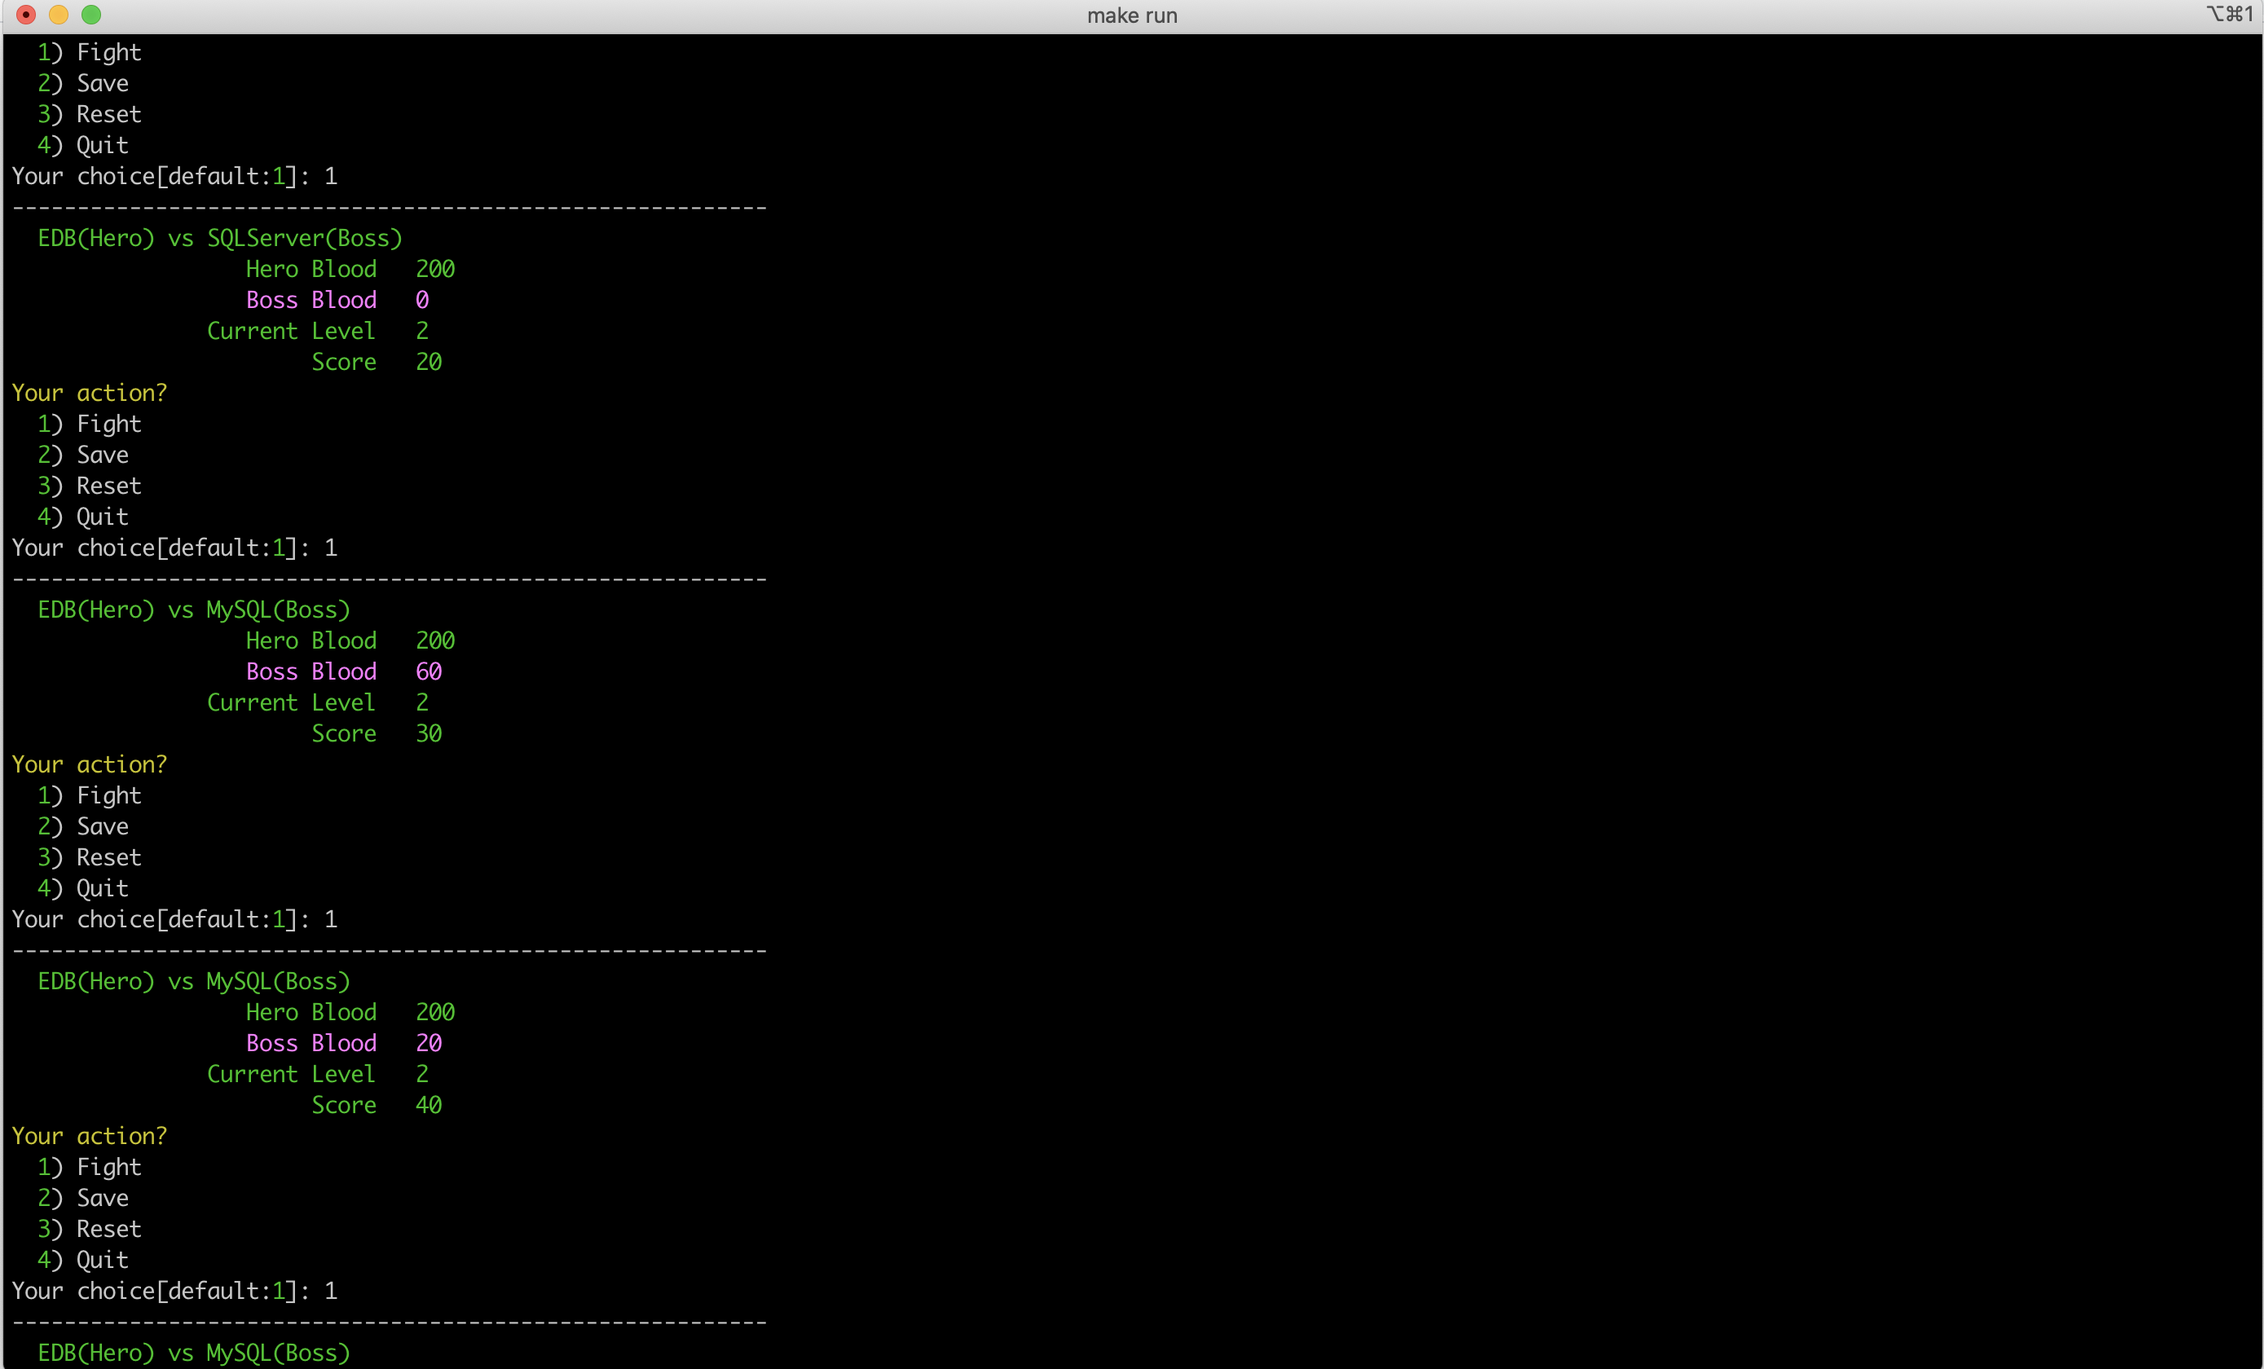
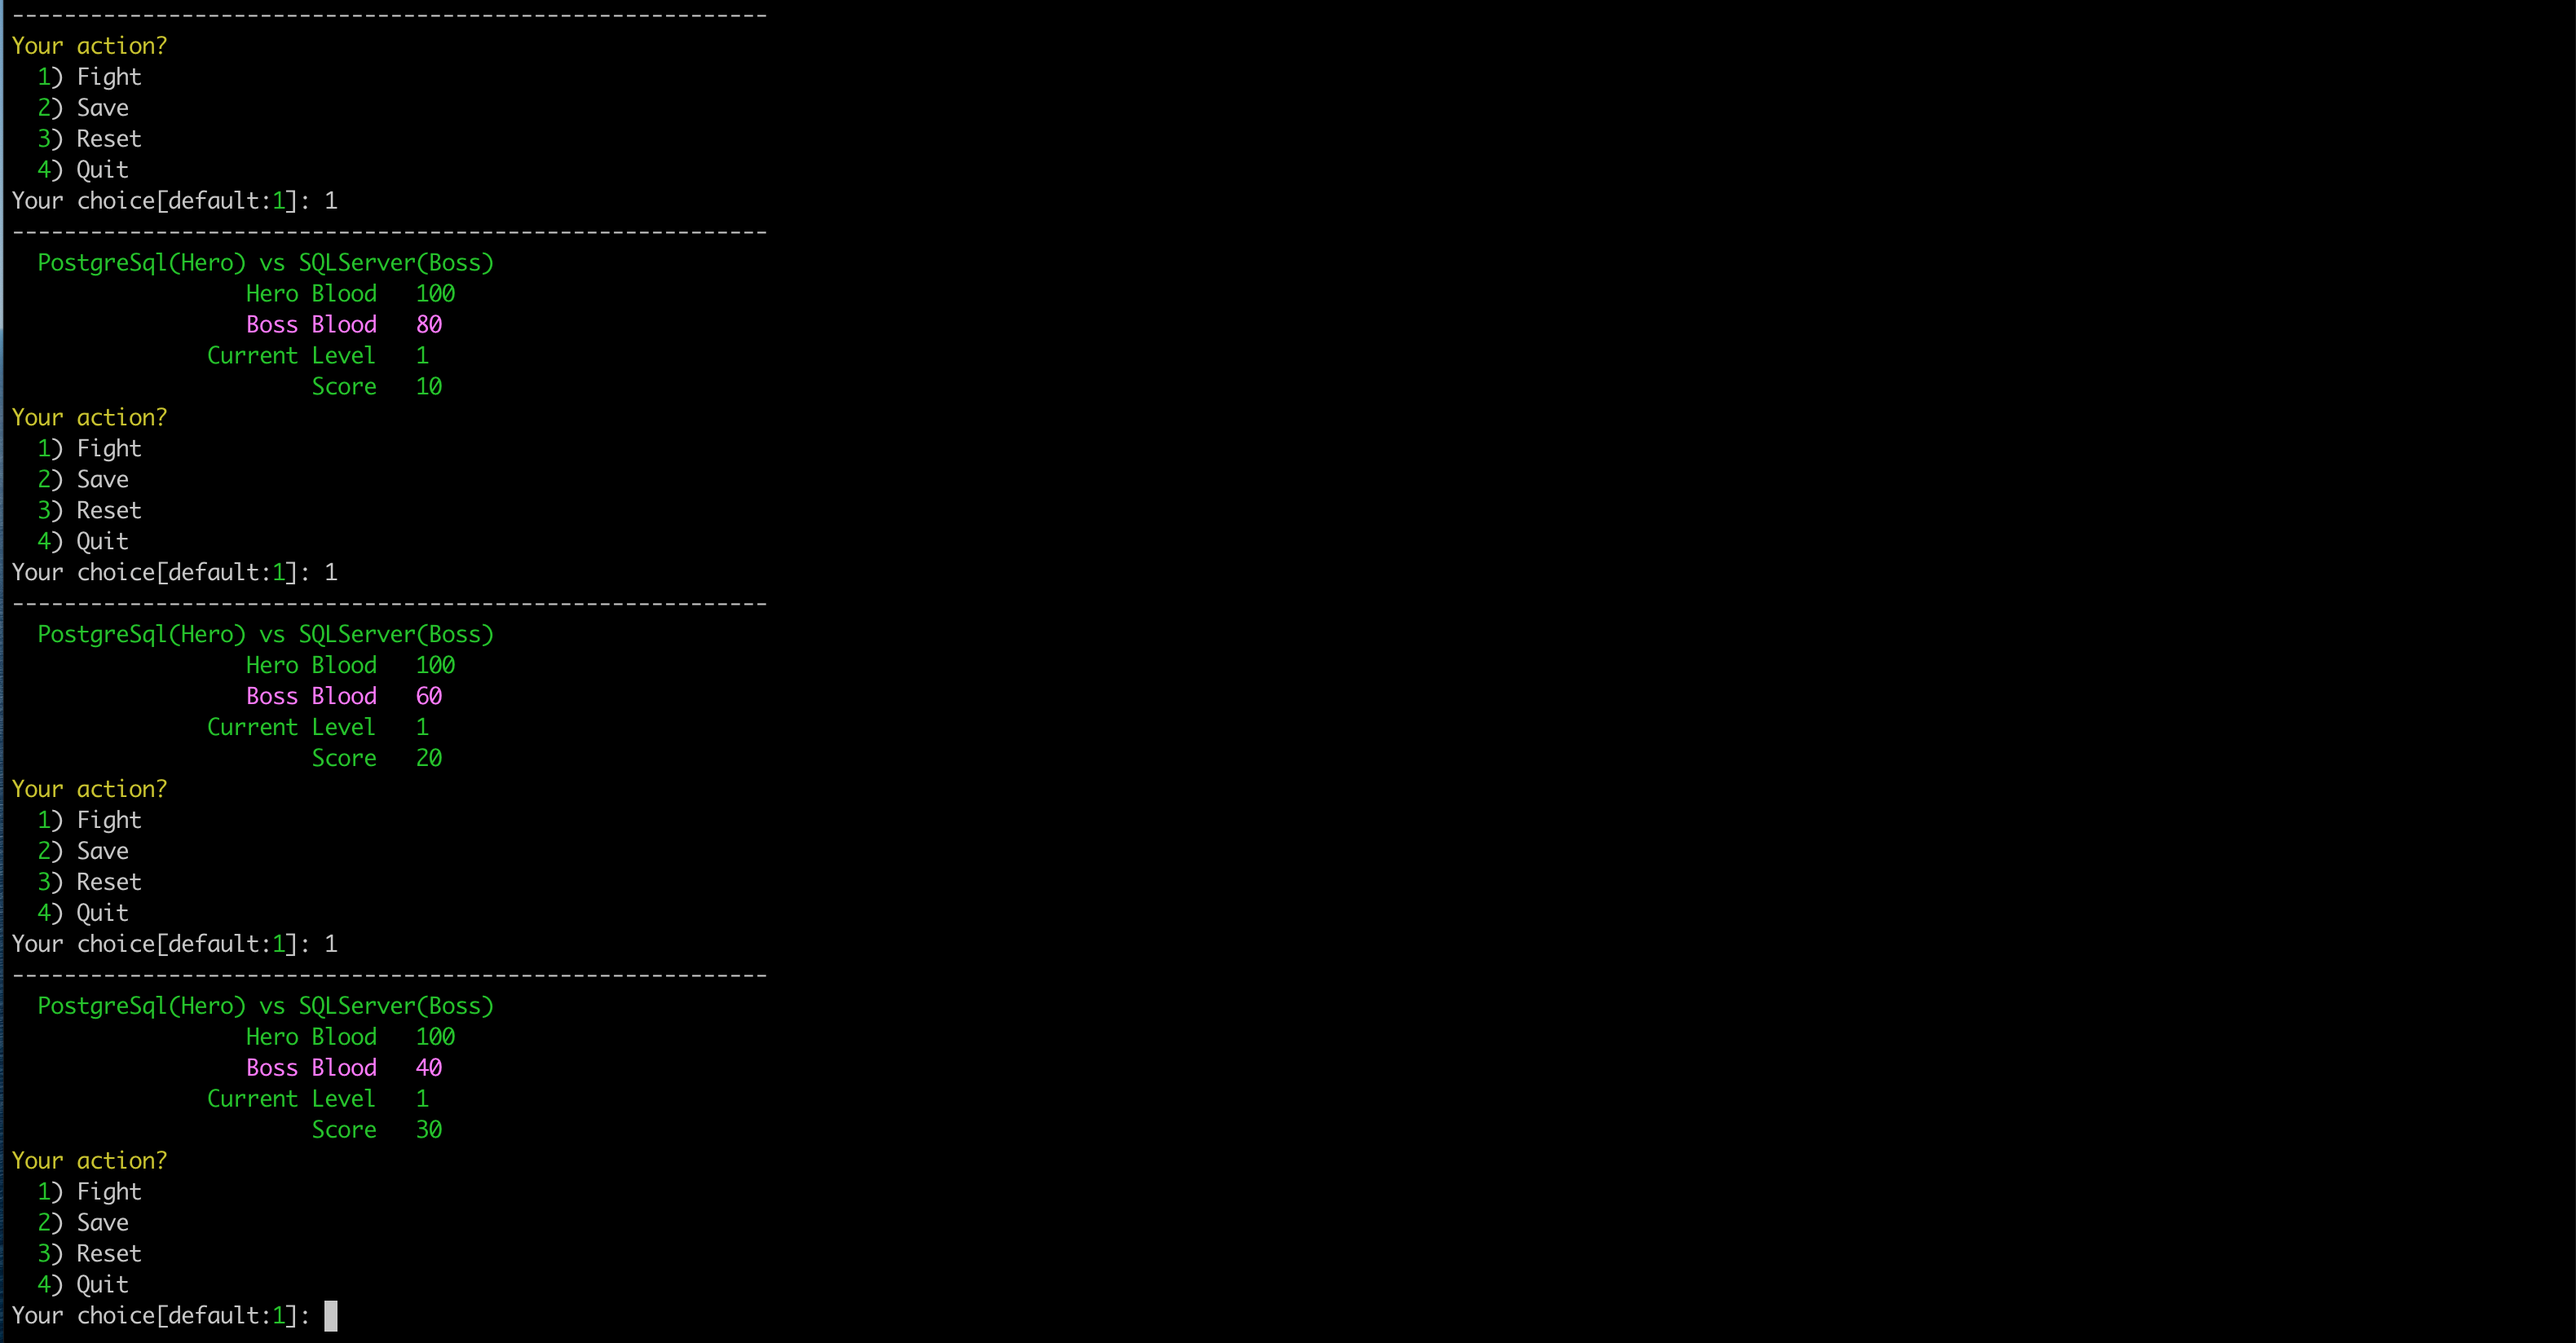
update image

Changed region(s): [[0.0, 0.0, 1.0, 1.0], [0.0, 0.557, 0.2167, 1.0], [0.0, 0.2785, 0.2167, 0.588]]

diff --git a/README.md b/README.md
@@ -40,7 +40,7 @@ You can choose a hero as a player to start to fight.
 ![Help](img/help.png)
 - Start Game
 ![Start](img/start.png)
-![Start](img/start.png)
+![GameOver](img/gameover.png)
 - Choose Hero
 ![Hero](img/hero.png)
 - Chosse Action
